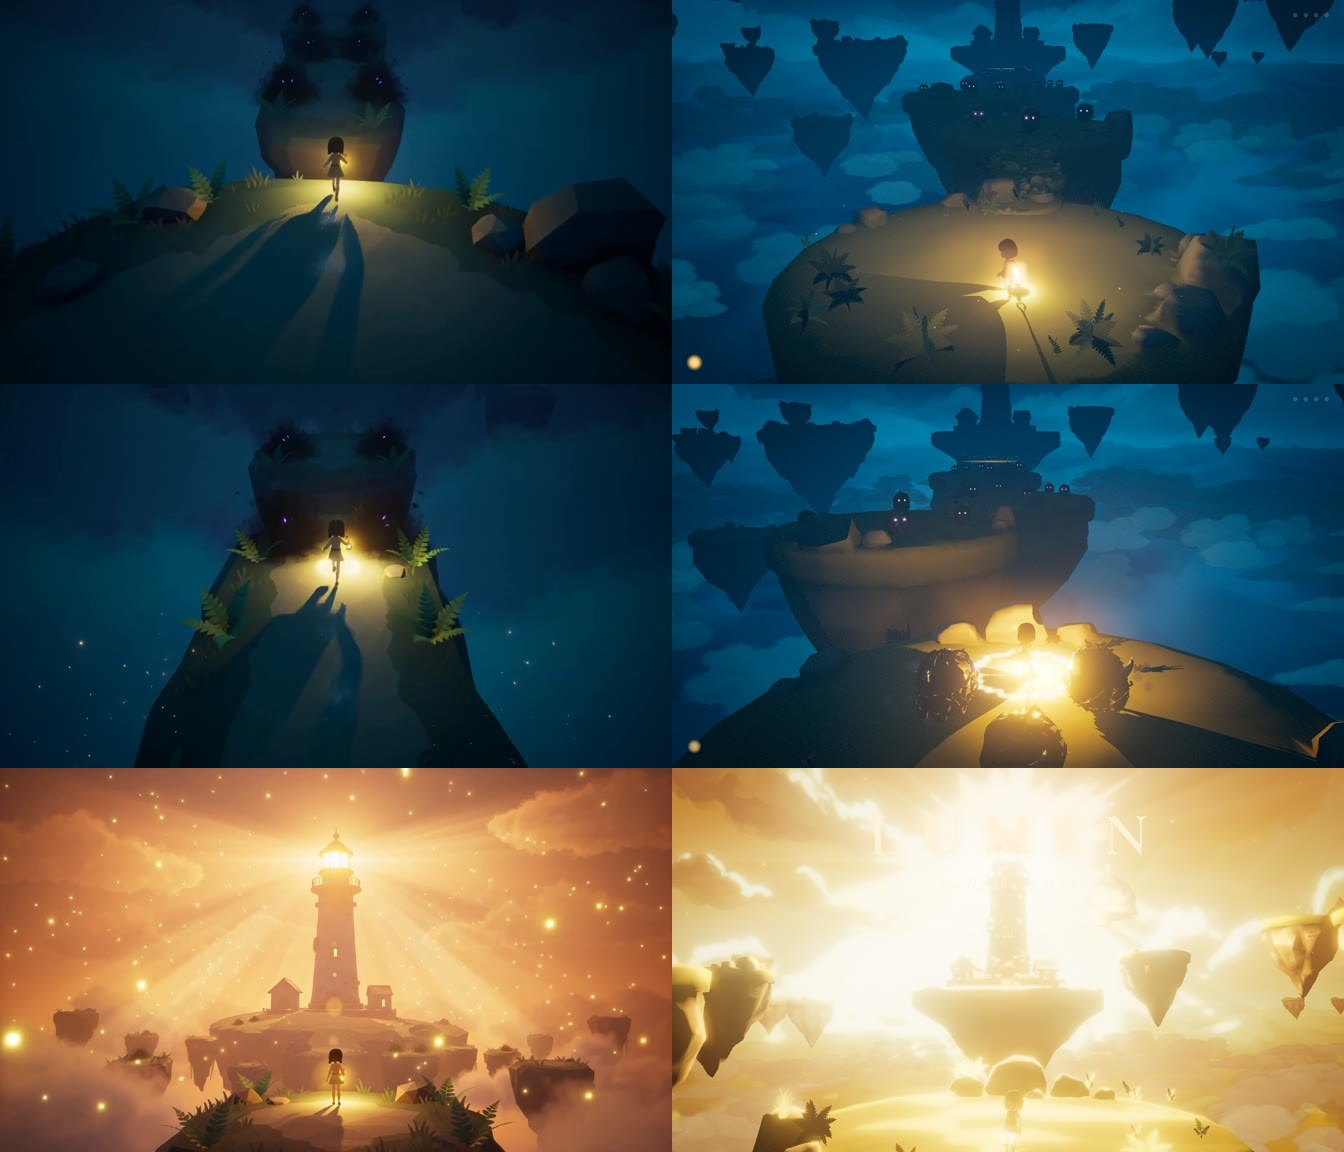
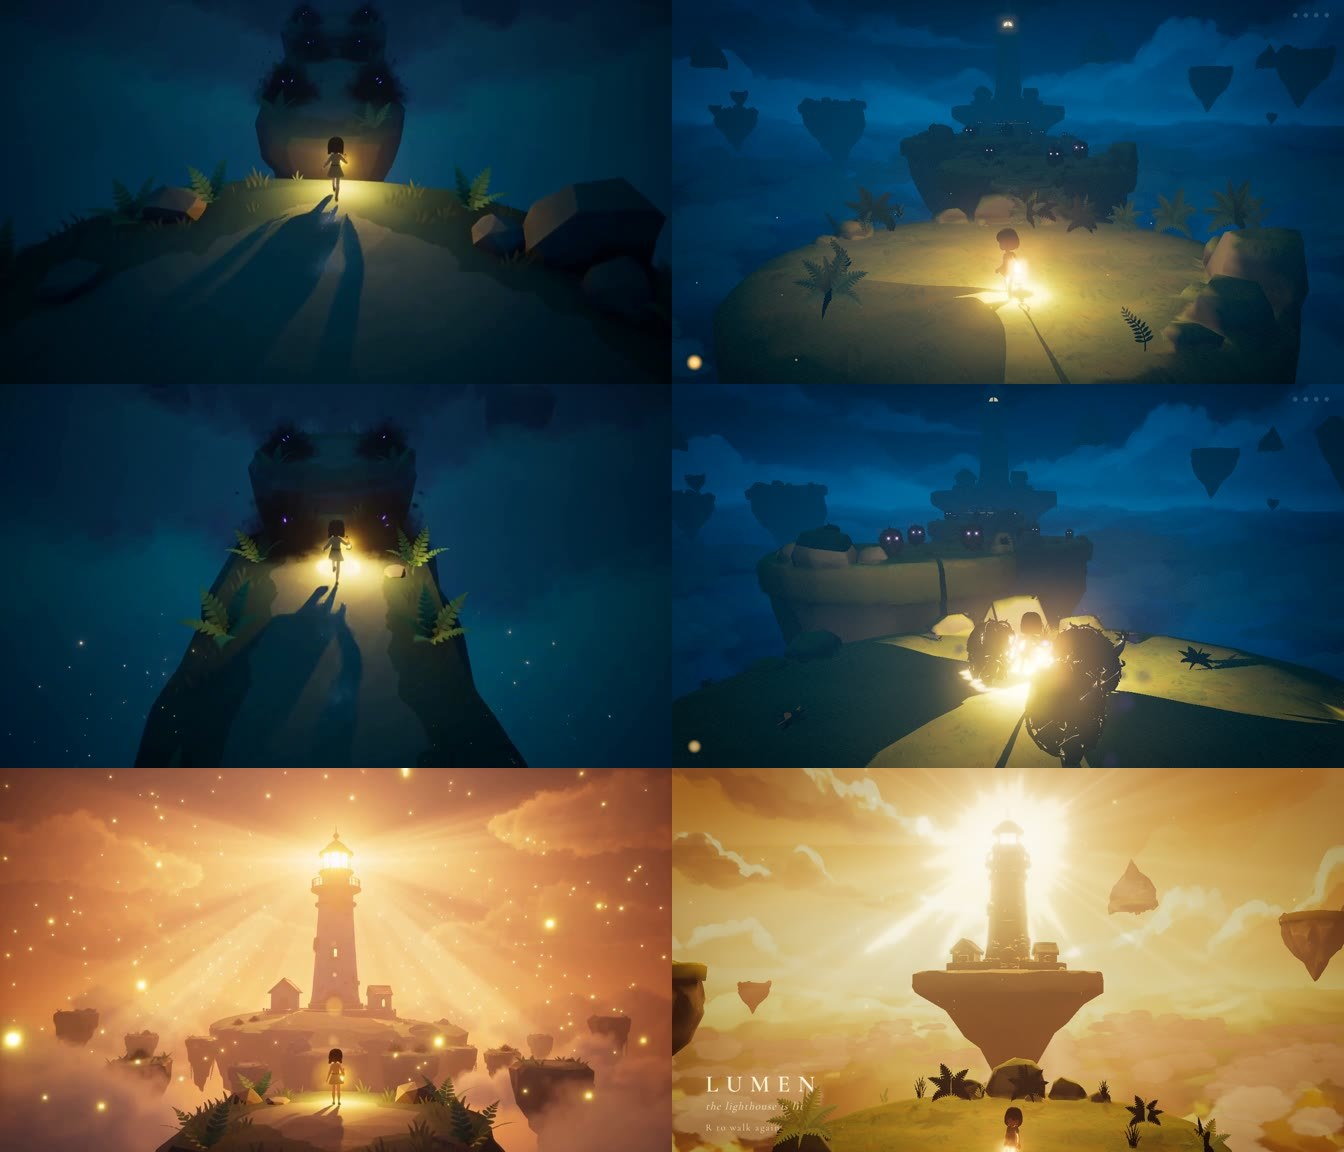
Grass on the island tops from a fal tile; navy night sky and hazier far rocks, as in the video
Claude-Session: https://claude.ai/code/session_01NEYy5LsfYQbGHNdgMXiCPT

diff --git a/index.html b/index.html
@@ -62,7 +62,7 @@ const lerp = THREE.MathUtils.lerp, clamp = THREE.MathUtils.clamp;
 const ease = t => t < .5 ? 2 * t * t : 1 - Math.pow(-2 * t + 2, 2) / 2;
 
 // ---------- palette, measured on the video frames (study/study.json, f_001..f_041) ----------
-const NIGHT = { fog: new THREE.Color(0x0a2c44), sky: new THREE.Color(0x022438), hemiTop: new THREE.Color(0x2d5a7a), hemiBot: new THREE.Color(0x0b1a14) };
+const NIGHT = { fog: new THREE.Color(0x072a42), sky: new THREE.Color(0x022438), hemiTop: new THREE.Color(0x2d5a7a), hemiBot: new THREE.Color(0x0b1a14) };
 const DAWN  = { fog: new THREE.Color(0xc98a58), sky: new THREE.Color(0xe8a060), hemiTop: new THREE.Color(0xffc890), hemiBot: new THREE.Color(0x5a3a28) };
 const LANTERN = 0xffcf8a;
 
@@ -123,10 +123,10 @@ const gltf = new GLTFLoader();
 const texL = new THREE.TextureLoader();
 const loadG = url => new Promise((res, rej) => gltf.load(url, res, undefined, rej));
 const loadT = url => new Promise((res, rej) => texL.load(url, t => { t.colorSpace = THREE.SRGBColorSpace; res(t); }, undefined, rej));
-const [heroG, lanternG, shadowG, islandG, islandLoG, lighthouseG, skyN, skyD, fernT, cloudT] = await Promise.all([
+const [heroG, lanternG, shadowG, islandG, islandLoG, lighthouseG, skyN, skyD, fernT, cloudT, grassT] = await Promise.all([
   loadG('assets/models/hero.glb'), loadG('assets/models/lantern.glb'), loadG('assets/models/shadow.glb'),
   loadG('assets/models/island.glb'), loadG('assets/models/island_lo.glb'), loadG('assets/models/lighthouse.glb'),
-  loadT('assets/tex/sky_night.webp'), loadT('assets/tex/sky_dawn.webp'), loadT('assets/tex/ferns.webp'), loadT('assets/tex/clouds.webp'),
+  loadT('assets/tex/sky_night.webp'), loadT('assets/tex/sky_dawn.webp'), loadT('assets/tex/ferns.webp'), loadT('assets/tex/clouds.webp'), loadT('assets/tex/grass.webp'),
 ]);
 cloudT.colorSpace = THREE.NoColorSpace;
 
@@ -154,7 +154,7 @@ const skyMat = new THREE.ShaderMaterial({
     void main(){ float u = vUv.x * 3. + uTime * .002; u = 1. - abs(mod(u, 2.) - 1.);
       vec2 uv = vec2(u, clamp(vUv.y, .002, .998));
       vec3 n = texture2D(tN, uv).rgb, d = texture2D(tD, uv).rgb;
-      n = pow(n, vec3(1.3)) * vec3(.45, .66, .95);
+      n = pow(n, vec3(1.55)) * vec3(.26, .46, .8);
       vec3 c = mix(n, d * .85, uDawn);
       gl_FragColor = vec4(c, 1.);
       #include <colorspace_fragment>
@@ -223,7 +223,7 @@ cg.setAttribute('iScale', new THREE.InstancedBufferAttribute(cScale, 2));
 cg.setAttribute('iCell', new THREE.InstancedBufferAttribute(cCell, 1));
 cg.instanceCount = CLOUDS;
 const cloudMat = new THREE.ShaderMaterial({
-  uniforms: { tC: { value: cloudT }, uFog: { value: NIGHT.fog.clone() }, uLit: { value: new THREE.Color(0x1f4c66) }, uDark: { value: new THREE.Color(0x05192a) },
+  uniforms: { tC: { value: cloudT }, uFog: { value: NIGHT.fog.clone() }, uLit: { value: new THREE.Color(0x173d58) }, uDark: { value: new THREE.Color(0x05192a) },
     uDensity: { value: .006 }, uTime: { value: 0 }, uGlow: { value: 0 } },
   vertexShader: `attribute vec3 iOff; attribute vec2 iScale; attribute float iCell; uniform float uTime; varying vec2 vUv; varying float vDepth;
     void main(){ vec3 o = iOff + vec3(sin(uTime * .05 + iOff.z) * 4., 0., 0.);
@@ -242,12 +242,36 @@ const cloudMat = new THREE.ShaderMaterial({
 const clouds = new THREE.Mesh(cg, cloudMat); clouds.frustumCulled = false; clouds.renderOrder = -5; if (!Q.has('noclouds')) scene.add(clouds);
 
 // ---------- islands ----------
+// the fal grass tile is projected from above on every upward-facing surface, at two scales so it never reads as a grid
+grassT.wrapS = grassT.wrapT = THREE.RepeatWrapping; grassT.anisotropy = 8;
+function addGrass(mat, extraFog = 1) {
+  mat.onBeforeCompile = sh => {
+    sh.uniforms.tGrass = { value: grassT };
+    sh.vertexShader = sh.vertexShader.replace('#include <common>', '#include <common>\nvarying vec3 vGW; varying vec3 vGN;')
+      .replace('#include <worldpos_vertex>', '#include <worldpos_vertex>\nvGW = (modelMatrix * vec4(transformed, 1.)).xyz; vGN = normalize(mat3(modelMatrix) * objectNormal);');
+    sh.fragmentShader = sh.fragmentShader.replace('#include <common>', '#include <common>\nuniform sampler2D tGrass; varying vec3 vGW; varying vec3 vGN;')
+      .replace('#include <map_fragment>', `#include <map_fragment>
+        float up = smoothstep(.5, .82, normalize(vGN).y);
+        vec3 g1 = texture2D(tGrass, vGW.xz * .32).rgb, g2 = texture2D(tGrass, vGW.xz * .071 + .37).rgb;
+        vec3 grass = mix(g1, g2, .45) * vec3(.95, 1.05, .9);
+        diffuseColor.rgb = mix(diffuseColor.rgb, grass, up * .92);`)
+      .replace('#include <fog_fragment>', `#ifdef USE_FOG
+          float fogFactor = 1.0 - exp(-fogDensity * fogDensity * vFogDepth * vFogDepth * ${extraFog.toFixed(2)});
+          gl_FragColor.rgb = mix(gl_FragColor.rgb, fogColor, fogFactor);
+        #endif`);
+  };
+  mat.customProgramCacheKey = () => 'grass' + extraFog;
+}
 const islandProto = fit(islandG.scene, { w: 1 });
 softenMaterials(islandProto);
 islandProto.traverse(m => { if (m.isMesh) { m.material.color.setRGB(.9, .95, .85); m.castShadow = false; } });
 const islandLo = fit(islandLoG.scene, { w: 1 });
 softenMaterials(islandLo);
 islandLo.traverse(m => { if (m.isMesh) { m.material.color.setRGB(.9, .95, .85); m.castShadow = false; } });
+islandProto.traverse(m => { if (m.isMesh) addGrass(m.material); });
+islandLo.traverse(m => { if (m.isMesh) addGrass(m.material); });
+// far rocks melt deeper into the haze than the playable islands, like the video's distant silhouettes
+const farMat = (() => { let mt; islandLo.traverse(m => { if (m.isMesh) mt = m.material; }); const c = mt.clone(); addGrass(c, 2.6); return c; })();
 const down = new THREE.Raycaster(); down.ray.direction.set(0, -1, 0);
 function topOf(obj, x = 0, z = 0) {
   obj.updateMatrixWorld(true); const wp = obj.getWorldPosition(new THREE.Vector3());
@@ -321,7 +345,7 @@ for (let i = 0; i < 20; i++) {
   const side = i % 2 ? 1 : -1, z = 10 - rand() * 330, x = side * (40 + rand() * 130), up = rand() < .3;
   const g = islandLo.clone(true); g.scale.setScalar(5 + rand() * 16);
   g.position.set(x, up ? 26 + rand() * 30 : -14 + rand() * 22, z); g.rotation.set(up ? Math.PI : 0, rand() * 6.28, (rand() - .5) * .2);
-  g.traverse(m => { if (m.isMesh) { m.castShadow = false; } });
+  g.traverse(m => { if (m.isMesh) { m.castShadow = false; m.material = farMat; } });
   scene.add(g); farIslands.push(g);
 }
 
@@ -724,7 +748,7 @@ function frame(forced) {
   sun.intensity = D * 1.8; sun.position.set(S.pos.x + 4, S.pos.y + 22, S.pos.z - 40); sun.target.position.copy(S.pos);
   moon.intensity = .35 * (1 - D);
   cloudMat.uniforms.uFog.value.copy(scene.fog.color); cloudMat.uniforms.uDensity.value = lerp(.0055, .0035, D);
-  cloudMat.uniforms.uLit.value.set(0x1f4c66).lerp(new THREE.Color(0xffd3a0), D); cloudMat.uniforms.uDark.value.set(0x05192a).lerp(new THREE.Color(0xa86a4a), D);
+  cloudMat.uniforms.uLit.value.set(0x173d58).lerp(new THREE.Color(0xffd3a0), D); cloudMat.uniforms.uDark.value.set(0x05192a).lerp(new THREE.Color(0xa86a4a), D);
   const igniteK = S.dawnT >= 0 ? clamp(S.dawnT / 1.2, 0, 1) : 0;
   lamp.material.color.setRGB(1, .7, .35).multiplyScalar(.6 + 3.5 * igniteK + (S.dawnT < 0 ? Math.max(0, Math.sin(now * 1.3)) * .8 : 0));
   lampLight.intensity = igniteK * 900;

diff --git a/README.md b/README.md
@@ -40,7 +40,7 @@ URL parameters for tests: `?autostart`, `?seed=N`, `?island=N` (start on island 
 4. **Verify**: `tools/play_offline.mjs` plays the whole game with the keyboard and films it; side-by-side
    pairs with the video are in `verify/`.
 
-## fal assets (32 calls)
+## fal assets (33 calls)
 
 | File(s) | Endpoint | From |
 |---|---|---|
@@ -56,10 +56,11 @@ URL parameters for tests: `?autostart`, `?seed=N`, `?island=N` (start on island 
 | `src/sky_night` → `tex/sky_night.webp` | `nano-banana-pro/edit` | f_001, f_025 |
 | `src/sky_dawn` → `tex/sky_dawn.webp` | `nano-banana-pro/edit` | sky_night, f_038 |
 | `src/clouds_concept` → `tex/clouds.webp` | `nano-banana-pro/edit` | f_038 |
+| `src/grass_tile` → `tex/grass.webp` (projected on the island tops at two scales) | `nano-banana-pro/edit` | f_017, f_038 |
 | `audio/pulse, dissolve, step, wind, bridge, ignite, whisper, charge` | `fal-ai/elevenlabs/sound-effects/v2` | text prompts |
 | `audio/music_night, music_dawn` | `elevenlabs/music/v2.5` (instrumental) | text prompts |
 
-Calls per endpoint: nano-banana-pro/edit 10, elevenlabs sound-effects v2 8, birefnet v2 6, tripo3d h3.1 3,
+Calls per endpoint: nano-banana-pro/edit 11, elevenlabs sound-effects v2 8, birefnet v2 6, tripo3d h3.1 3,
 elevenlabs music v2.5 2, meshy v7.1 1, meshy rigging 1, hunyuan-3d v3.1 pro 1. Full prompts and arguments are
 in `assets/src/fal_log.json` and `assets/audio/fal_log.json` (file names there are the raw downloads, before
 WebP conversion and GLB optimization).
@@ -86,9 +87,9 @@ procedural sprites, not images.
 
 - The camera follows from behind and above, like the video, but is a little closer, so the hero stays
   readable while you play.
-- The island tops are flat rather than domed, and the ferns are camera-facing cards, not 3D plants.
+- The island tops are flat rather than domed (grass is a fal tile projected from above), and the ferns are
+  camera-facing cards, not 3D plants.
 - The shadows look like the video's bramble creatures but have no rig: they move in squashing hops, turn
   and dissolve.
 - The lighthouse is visible far away from the start, so the goal reads. In the video it shows up only at the
   end.
-- The night sky is a little more cyan and the far rocks are crisper than in the video.
